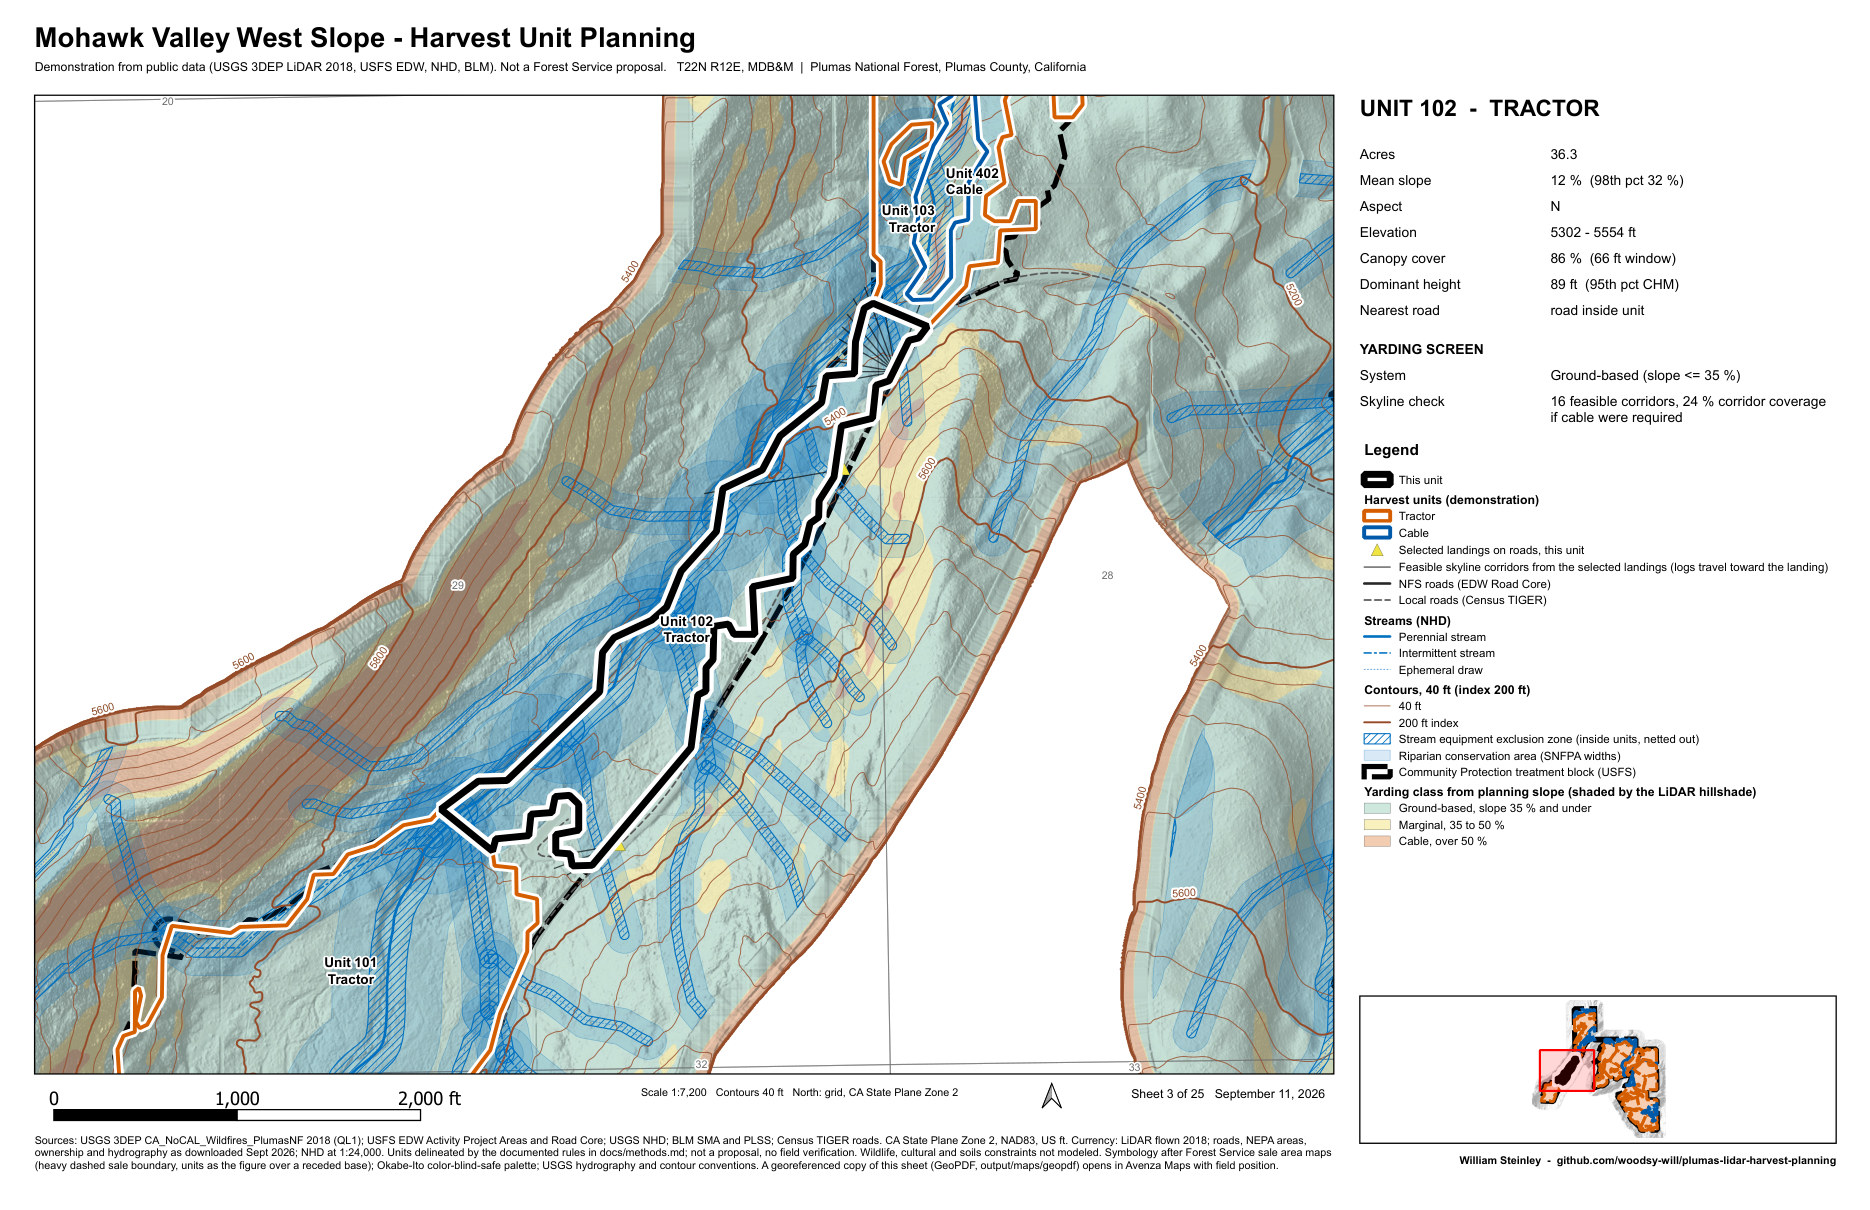
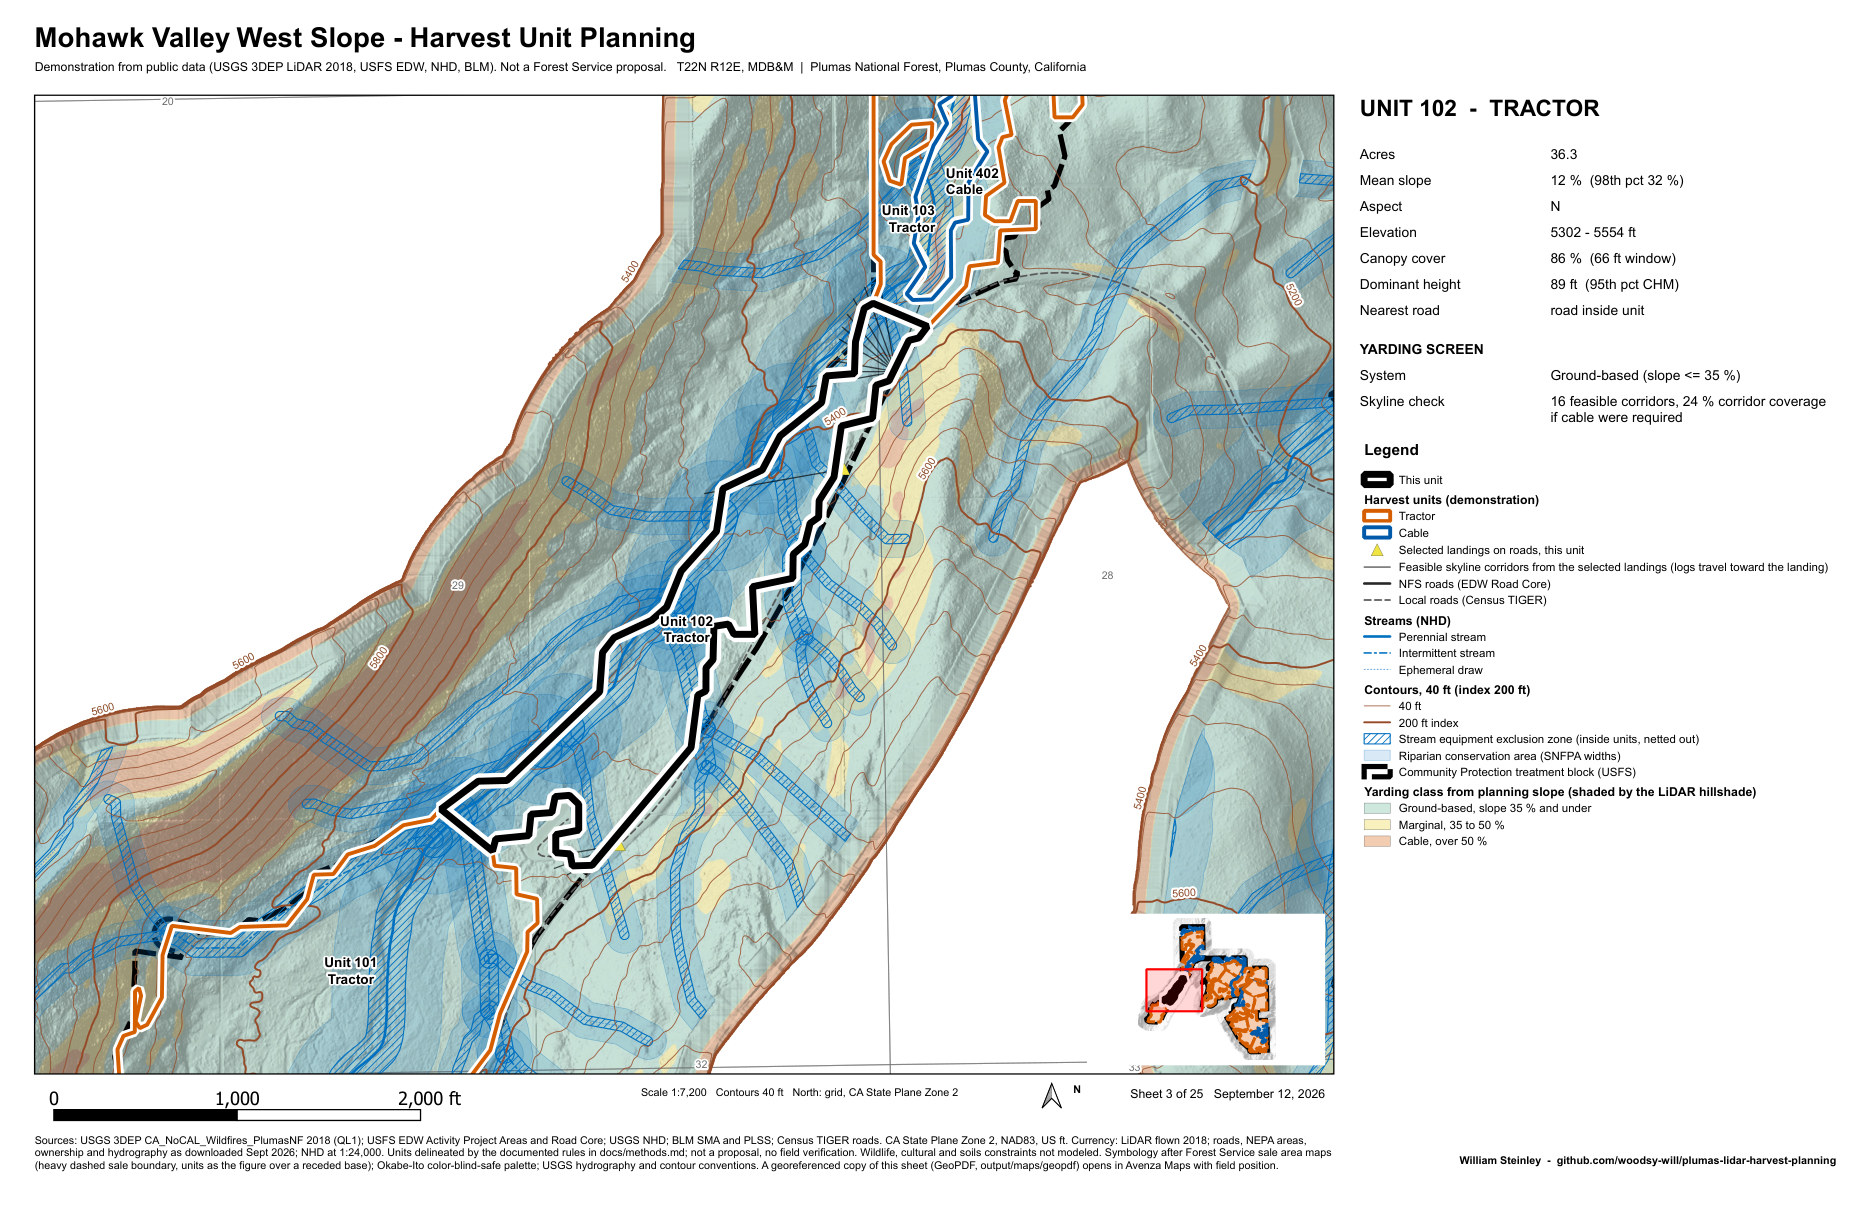
Map series: locator inset in the map corner so the cable-sheet legends are no longer covered, 500 ft scale-bar segments at 1:4,800 and 1:6,000, N beside the arrow, title metadata on the merged PDF

Changed region(s): [[0.5893, 0.7339, 0.7134, 0.9174], [0.8064, 0.8256, 0.8995, 0.9479]]

diff --git a/scripts/05_unit_maps.py b/scripts/05_unit_maps.py
@@ -241,14 +241,14 @@ def make_layout(name, feat=None, extent=None, scale=None):
     leg.setStyleMargin(QgsLegendStyle.Subgroup, QgsLegendStyle.Top, 2.0); leg.setStyleMargin(QgsLegendStyle.Symbol, QgsLegendStyle.Top, 1.4)
     for style, size in ((QgsLegendStyle.Title, 10), (QgsLegendStyle.Group, 8), (QgsLegendStyle.Subgroup, 8), (QgsLegendStyle.SymbolLabel, 7.5)):
         st = leg.style(style); fnt = QFont("Arial"); fnt.setPointSizeF(size); fnt.setBold(style in (QgsLegendStyle.Title, QgsLegendStyle.Subgroup)); st.setFont(fnt); leg.setStyle(style, st)
-    leg.attemptMove(QgsLayoutPoint(px, ly, QgsUnitTypes.LayoutMillimeters)); leg.attemptResize(QgsLayoutSize(pw, 100, QgsUnitTypes.LayoutMillimeters)); layout.addLayoutItem(leg)
-    sb = QgsLayoutItemScaleBar(layout); sb.setLinkedMap(m); sb.setStyle("Single Box"); sb.setUnits(QgsUnitTypes.DistanceFeet); sb.setUnitLabel("ft"); sb.setNumberOfSegments(2); sb.setNumberOfSegmentsLeft(0); sb.setUnitsPerSegment(1000 if scale and scale <= 12000 else 2000)
+    leg.attemptMove(QgsLayoutPoint(px, ly, QgsUnitTypes.LayoutMillimeters)); leg.attemptResize(QgsLayoutSize(pw, 268 - ly, QgsUnitTypes.LayoutMillimeters)); layout.addLayoutItem(leg)
+    sb = QgsLayoutItemScaleBar(layout); sb.setLinkedMap(m); sb.setStyle("Single Box"); sb.setUnits(QgsUnitTypes.DistanceFeet); sb.setUnitLabel("ft"); sb.setNumberOfSegments(2); sb.setNumberOfSegmentsLeft(0); sb.setUnitsPerSegment(500 if scale and scale <= 6000 else 1000 if scale and scale <= 12000 else 2000)
     sb.setHeight(2.5); sb.setLabelBarSpace(1); sb.attemptMove(QgsLayoutPoint(10, 250, QgsUnitTypes.LayoutMillimeters)); layout.addLayoutItem(sb)
     add_label(layout, f"Scale 1:{int(round(m.scale())):,}   Contours 40 ft   North: grid, CA State Plane Zone 2", 148, 251, 92, 6, 7)
-    add_label(layout, f"Sheet {SHEET[0]} of {SHEET[1]}   {DATE}", 250, 251, 56, 6, 8, False, Qt.AlignRight)
+    add_label(layout, f"Sheet {SHEET[0]} of {SHEET[1]}   {DATE}", 250, 251, 56, 6, 8, False, Qt.AlignRight); add_label(layout, "N", 247.8, 250.3, 5, 5, 7, True)
     north = QgsLayoutItemPicture(layout); north.setPicturePath(os.path.join(QgsApplication.prefixPath(), "svg", "arrows", "NorthArrow_04.svg")); north.attemptMove(QgsLayoutPoint(240.5, 248.5, QgsUnitTypes.LayoutMillimeters)); north.attemptResize(QgsLayoutSize(7, 7.5, QgsUnitTypes.LayoutMillimeters)); layout.addLayoutItem(north)
     if feat is not None:
-        ins = QgsLayoutItemMap(layout); ins.setKeepLayerSet(True); ins.setLayers([cur, units_inset, block, hill]); ins.setCrs(CRS); ins.attemptMove(QgsLayoutPoint(px, 230, QgsUnitTypes.LayoutMillimeters)); ins.attemptResize(QgsLayoutSize(pw, 34, QgsUnitTypes.LayoutMillimeters)); ins.zoomToExtent(block_ext.buffered(1500)); ins.setFrameEnabled(True)
+        ins = QgsLayoutItemMap(layout); ins.setKeepLayerSet(True); ins.setLayers([cur, units_inset, block, hill]); ins.setCrs(CRS); ins.attemptMove(QgsLayoutPoint(251, 211, QgsUnitTypes.LayoutMillimeters)); ins.attemptResize(QgsLayoutSize(55, 35, QgsUnitTypes.LayoutMillimeters)); ins.setBackgroundEnabled(True); ins.setBackgroundColor(QColor(255, 255, 255)); ins.zoomToExtent(block_ext.buffered(1500)); ins.refresh()   # locator in the map corner so the panel legend can run to the footer; ins.zoomToExtent(block_ext.buffered(1500)); ins.setFrameEnabled(True)
         ov = QgsLayoutItemMapOverview("cur", ins); ov.setLinkedMap(m); ov.setFrameSymbol(fill("255,0,0,40", "255,0,0,255", 0.5)); ins.overviews().addOverview(ov); layout.addLayoutItem(ins)
     add_label(layout, "Sources: USGS 3DEP CA_NoCAL_Wildfires_PlumasNF 2018 (QL1); USFS EDW Activity Project Areas and Road Core; USGS NHD; BLM SMA and PLSS; Census TIGER roads. "
                       "CA State Plane Zone 2, NAD83, US ft. Currency: LiDAR flown 2018; roads, NEPA areas, ownership and hydrography as downloaded Sept 2026; NHD at 1:24,000. Units delineated by the documented rules in docs/methods.md; "
@@ -302,6 +302,7 @@ try:
     w = PdfWriter()
     for p in [os.path.join(OUT, "Overview.pdf")] + pages:
         w.append(p)
+    w.add_metadata({"/Title": "Mohawk Valley West Slope - Harvest Unit Planning, 25-sheet map series (demonstration from public data)", "/Author": "William Steinley"})
     w.write(os.path.join(OUT, "Unit_Map_Series.pdf")); print("merged", len(pages) + 1, "pages")
 except Exception as e:
     print("merge skipped:", e)
